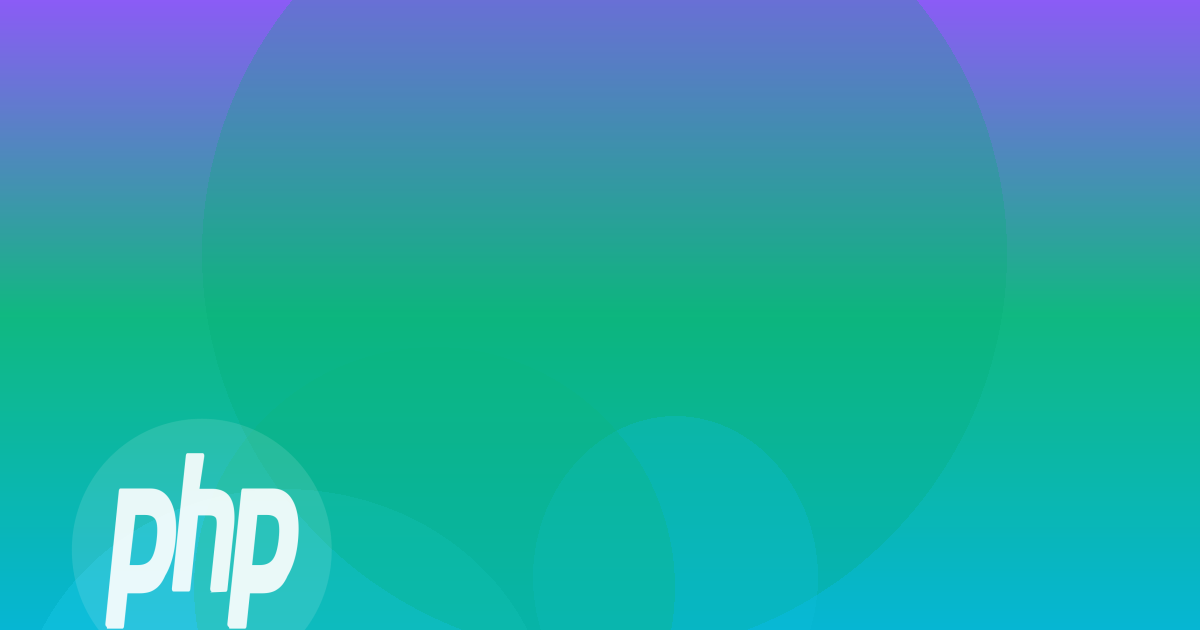
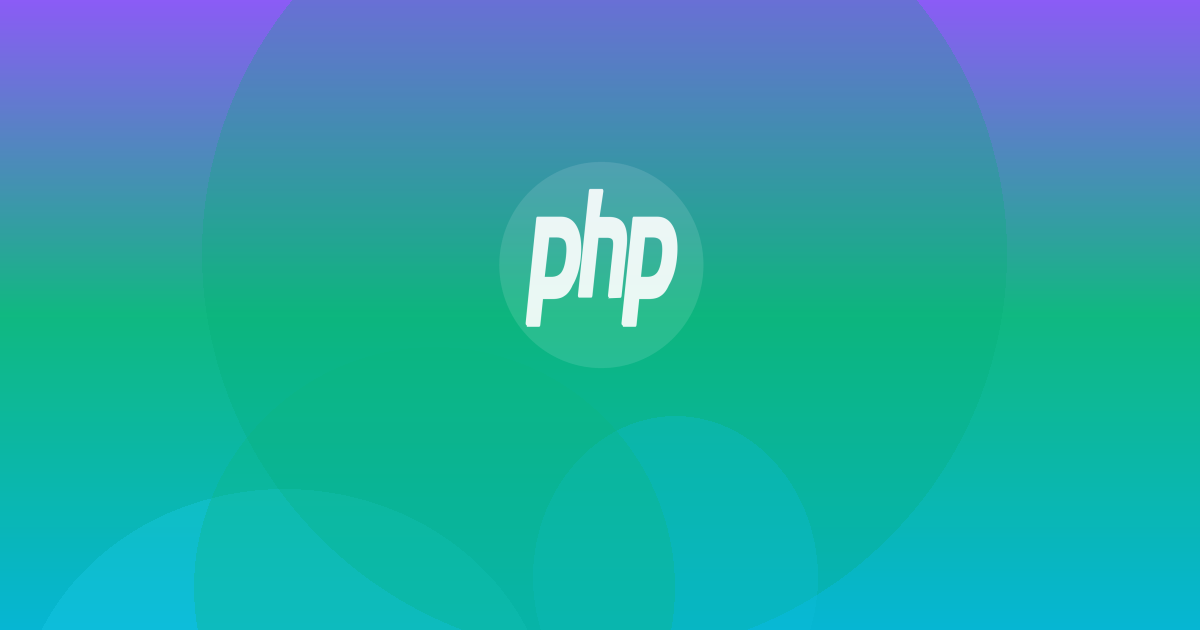
..

Changed region(s): [[0.0617, 0.6635, 0.2775, 1.0], [0.4008, 0.3016, 0.5858, 0.6032]]

diff --git a/helpers/ModernCoverGenerator.php b/helpers/ModernCoverGenerator.php
@@ -290,26 +290,26 @@ class ModernCoverGenerator
         try {
             $logo = $this->imageManager->read($pngPath);
 
-            // Scale logo to desired size on cover (250-350px)
-            $logoSizes = [250, 280, 300, 320, 350];
+            // Scale logo to desired size on cover (200-300px for better balance)
+            $logoSizes = [200, 220, 250, 280, 300];
             $logoSize = $logoSizes[$seed % count($logoSizes)];
             $logo->scale($logoSize, $logoSize);
 
-            // Position logo (bottom-right, bottom-left, center, etc.)
+            // Better centered positions with proper balance
             $positions = [
-                ['bottom-right', -60, -60],
-                ['bottom-left', 60, -60],
-                ['center', 200, 150],
-                ['center', -200, 150],
-                ['center', 0, -100],
+                ['center', 0, 0],        // Perfect center
+                ['center', 0, -50],      // Center slightly up
+                ['center', 0, 50],       // Center slightly down
+                ['center', -100, 0],     // Center left
+                ['center', 100, 0],      // Center right
             ];
 
             $position = $positions[$seed % count($positions)];
 
-            // Apply subtle opacity by converting to grayscale and reducing opacity
+            // Apply subtle opacity by converting to grayscale and light transparency
             $logo->greyscale();
 
-            // Place the logo
+            // Place the logo centered
             $img->place($logo, $position[0], $position[1], $position[2]);
 
             // Cleanup temp files
